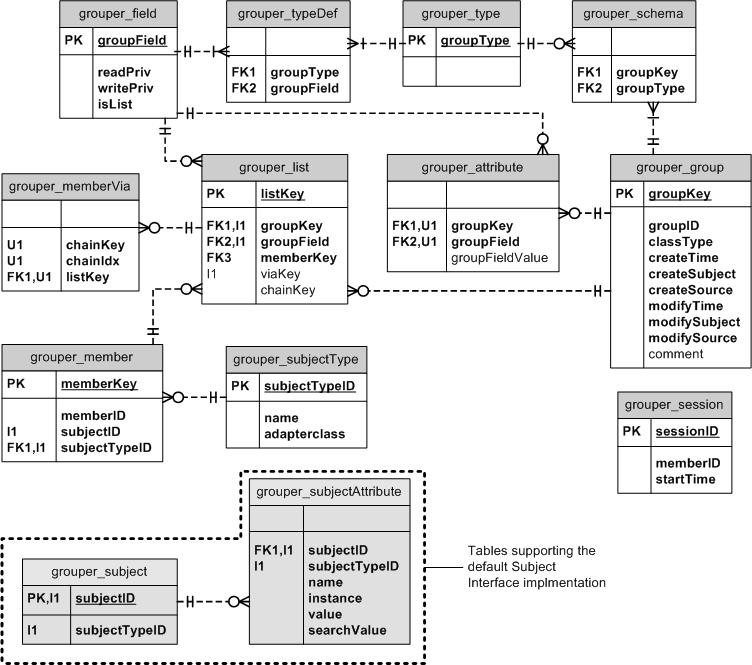
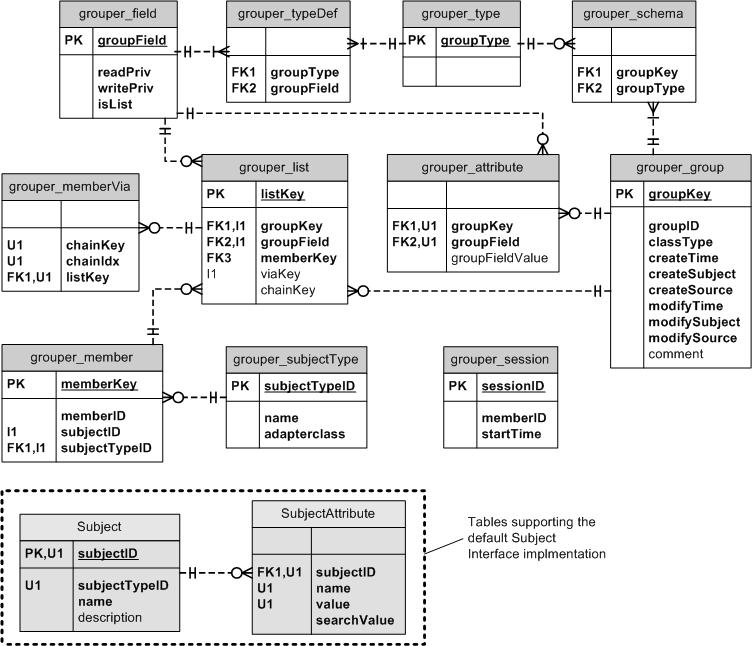
* new erd * minor impl aesthetics
git-svn-id: https://svn.internet2.edu/svn/i2mi/trunk/grouper@1486 bc24b658-cf39-4249-b827-e3526eaaeb42

Changed region(s): [[0.0, 0.0, 1.0, 1.0], [0.5811, 0.5263, 0.7646, 0.7121], [0.0, 0.2477, 0.1835, 0.3096]]

diff --git a/doc/grouper-impl-guide.html b/doc/grouper-impl-guide.html
@@ -52,7 +52,7 @@ td.r {
 <body>
 <div id="summary">
 grouper-impl-guide.html<br />
-$Date: 2005-09-03 17:00:26 $
+$Date: 2005-09-03 17:22:45 $
 </div>
 <div id="title">
 <h1>Grouper Implementation Guide</h1>
@@ -186,7 +186,9 @@ broad roadmap of the Grouper development cycle is below:
 <tr>
   <td class="c">0.9</td>
   <td class="c">~200511</td>
-  <td class="r">API and UI support for new Grouper API</td>
+  <td class="r">API and UI support for new Grouper API; preparation for
+    1.0
+  </td>
 </tr>
 <tr>
   <td class="c">1.0</td>
@@ -257,10 +259,7 @@ groups) have what access to each namespace and group.
 The Groups Registry uses a RDBMS to store information on namespaces,
 groups, memberships and possibly privileges.  Grouper is
 currently known to work and tested with HSQLDB, PostgreSQL and Oracle.
-<span class="TODO">
-This is the current Grouper database schema
-<a href="http://middleware.internet2.edu/dir/groups/docs/groupsRegERD0.5.5.jpg">ERD</a>.
-</span>
+This is the current Grouper database schema <a href="erd.jpg">ERD</a>.
 </p>
 <!-- registry_gans -->
 <!-- registry_attrs -->
@@ -305,8 +304,9 @@ Groups and namespaces have the following set of attributes:
   <td class="c">name</td>
   <td class="r">A system-maintained, read-only string representation
     of the logical ordered pair of <i>(stem, extension)</i>, used
-    to facilitate searching for groups by name.  The name is
-    represented as <i>stem:extension</i>.</td>
+    to facilitate searching for groups by name.  The string
+    representation of the <i>name</i> attribute is <i>stem:extension</i>.
+  </td>
 </tr>
 <tr>
   <td class="c">displayExtension</td>
@@ -320,12 +320,14 @@ Groups and namespaces have the following set of attributes:
   <td class="r">A system-maintained, read-only string representation
     of the logical ordered pair of <i>(displayName of stem,
     displayExtension)</i>, used to facilitate searching for groups
-    by displayed name.  The <i>displayName</i> is represented as
-    <i>displayName of stem:displayExtension</i>.</td>
+    by displayed name.  The string representation of the
+    <i>displayName</i> attribute is 
+    <i>displayName of stem:displayExtension</i>.
+  </td>
 </tr>
 <tr>
   <td class="c">description</td>
-  <td class="r">Semantics defined by the ementation site.</td>
+  <td class="r">Semantics defined by the implementation site.</td>
 </tr>
 </tbody>
 </table>
@@ -988,12 +990,12 @@ the <a href="#config_db">database</a> and
 <h2>5. Configuring Grouper</h2>
 </div>
 <p>
-Grouper provides very little configuration by default.  In fact, if a
+Grouper requires very little configuration by default.  In fact, if a
 site is comfortable using the HSQLDB database and running all programs
-that interact with the Groups Registry from <i>$GROUPER</i>, no
-configuration (outside of <a href="#run">setting one's classpath</a>)
-is required.  The next sections will explain how to move beyond
-that specific (and default) setup.
+that interact with the Groups Registry from the <i>$GROUPER</i>
+directory, no configuration (outside of <a href="#run">setting one's
+classpath</a>) is required.  The next sections will explain how to
+move beyond that specific (and default) setup.
 </p>
 <!-- config_db -->
 <div class="subsection">
@@ -1003,9 +1005,10 @@ that specific (and default) setup.
 <p>
 Grouper uses <a href="http://www.hibernate.org/">Hibernate</a> to
 persist objects in the Groups Registry.  As Hibernate uses JDBC to
-speak to a RDMBS, Grouper should be able to work with your preferred
-database backend provided there is a JDBC driver.  Grouper is currently
-being tested against HSQLDB (the default), PostgreSQL and Oracle.
+speak to a RDBMS, Grouper should be able to work with your preferred
+database backend provided there is a JDBC driver for it.  Grouper
+is currently being tested against HSQLDB (the default), PostgreSQL
+and Oracle.
 </p>
 <!-- config_db_hsqldb -->
 <div class="subsubsection">
@@ -1013,8 +1016,10 @@ being tested against HSQLDB (the default), PostgreSQL and Oracle.
 <h4>5.1.1 HSQLDB</h4>
 </div>
 <p>
-Grouper uses HSQLDB as its default RDBMS.  No additional configuration
-is required.
+Grouper uses HSQLDB as its default RDBMS.  The ony configuration that
+may be required is to provide an absolute path to one's database by
+setting <i>hibernate.connection.url</i> in
+<tt>$GROUPER/conf/grouper.properties</tt>.
 </p>
 <!-- config_db_hsqldb -->
 <!-- config_db_postgres -->
@@ -1217,7 +1222,7 @@ document could be used as a starting point.
 </p>
 <p>
 All interactions with the Grouper API are conducted within a session
-that is constrained by the privilege's of the session's subject.
+that is constrained by the privileges of the session's subject.
 The default <i>GrouperSystem</i> subject may be used although it may be
 preferable to assign each loader and provisioning connector a unique
 subject to better meet site-specific security requirements.
